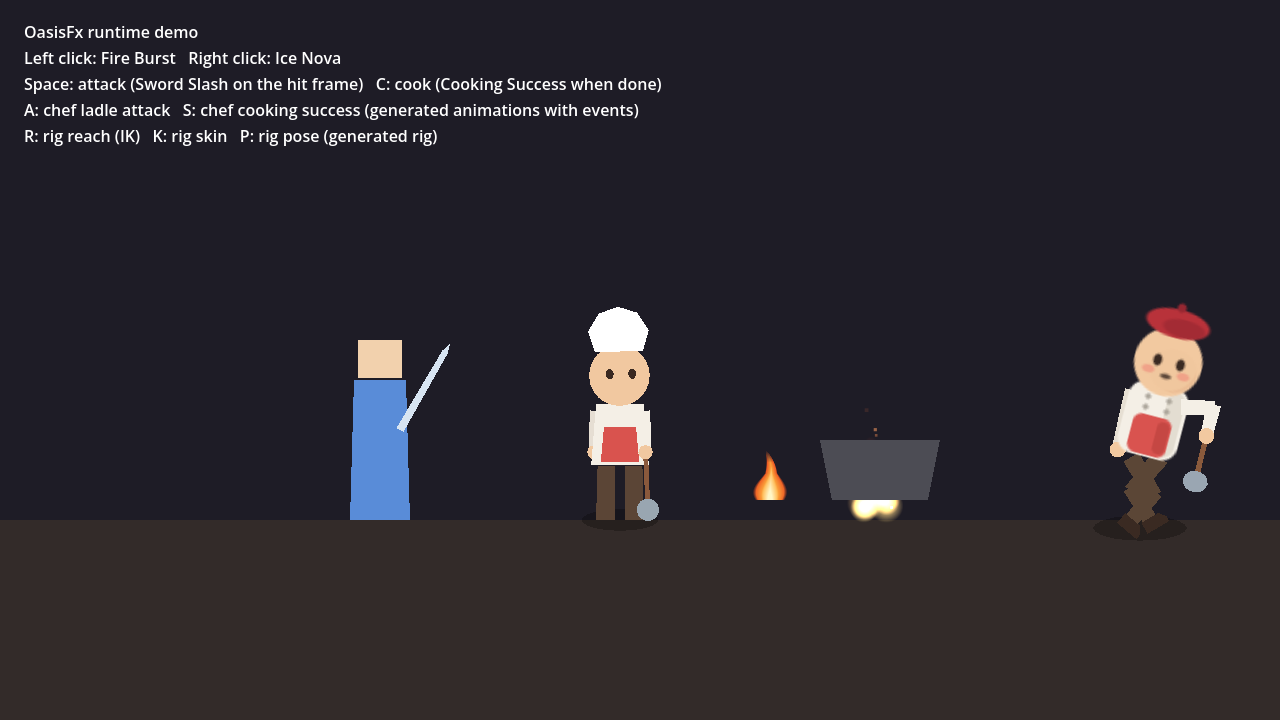
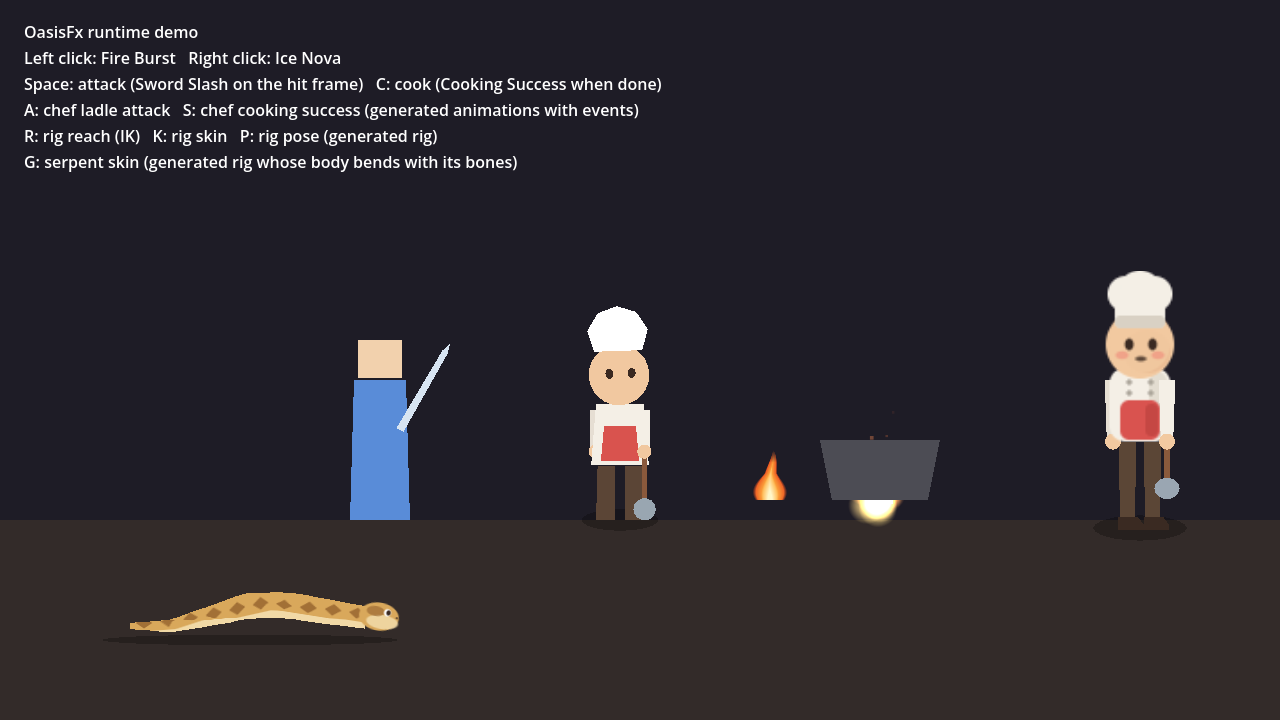
0.7.0 docs and status: bending parts, verification, audit appendix
desktop.md (usage, verification table: 191 passed, 0 failed, also on a
fresh copy; packaged Linux smoke test with rig_bending and matches_cli;
the GPU skinning spike result; Windows QA steps), READMEs, AUDIT section
13, CLAUDE.md status. GPU skinning on real hardware, Windows launch and
the real White Sahara mannequin import are NOT RUN.

Claude-Session: https://claude.ai/code/session_01QNXxnfVkdYajCu9VvWnLEJ

diff --git a/addons/oasis_fx/docs/desktop.md b/addons/oasis_fx/docs/desktop.md
@@ -4,7 +4,7 @@ OasisFx is also a standalone desktop application, built with Godot 4.7.2 from th
 repository (`app/`, entry scene `app/main.tscn`). It needs neither Godot Editor nor the
 game project to run. It edits particle effects (`.vfx.json`), layered sound effects
 (`.sfx.json`, Phase 2), animations (`.anim.json`) and sprite frames (`.frames.json`,
-Phase 3), and 2D cutout rigs (`.rig.json`, Phase 4). It uses the same core as the CLI (`addons/oasis_fx/src/core/`): the
+Phase 3), and 2D cutout rigs (`.rig.json`, Phase 4; bending parts in 0.7.0). It uses the same core as the CLI (`addons/oasis_fx/src/core/`): the
 inspector is generated from the validator's field table, the preview is built by the
 generator's builder, and export calls the generator.
 
@@ -35,6 +35,13 @@ the frames the animation uses and the current frame (right).*
 *Oasis Chef (Phase 4) with the `night_shift` skin and the `wave` pose; the right arm's IK
 target was moved, so the arm reaches up and the elbow bends. Bones (blue) and IK targets
 (orange circles) are drawn on top; the inspector shows the parts list editor.*
+
+![OasisFx desktop app with a bending rig](../../../docs/images/desktop_rig_bend.png)
+
+*Sand Serpent (0.7.0) in the `s_curve` pose: the textured body polygon bends with the six
+spine bones; its points are shown as green dots, the neck's IK target in orange. The
+inspector shows the selected `body` part and **Bend with bones**; further down are its
+weights (one value per point for each bone).*
 
 ## Using it
 
@@ -76,8 +83,15 @@ scene is never changed. A message lists what was not imported (bone weights, IK,
 sprite regions, animations, renamed nodes); the preset opens unsaved, ready for IK chains,
 skins and poses. Export it as a **new** scene. Details: [rig_format.md](rig_format.md).
 
+**Bending parts.** Select a polygon part under **Parts** and click **Bend with bones**: the
+part moves to the rig root (it stays where it is) and gets automatic weights for its nearest
+bones; its **Weights** list then shows one value per point for each bone, editable by hand.
+The preview bends it with the bones (points drawn as green dots with **Bones** on). Add
+points along the outline where it should bend first: a 4-point rectangle cannot bend. See
+[rig_format.md](rig_format.md#bending-parts-deformation).
+
 The preview is the generated rig itself (same builder, same runtime script), so skins,
-poses and IK behave as in the game. Moving a target in the preview does not change the
+poses, IK and bending behave as in the game. Moving a target in the preview does not change the
 preset; IK targets start where the preset says (`target`, or the rest pose).
 
 ### The game project and its files
@@ -218,7 +232,8 @@ bundled, Fire Burst exports into the given folder, the Sword Slash SFX example
 validates, loads its audio from the package (real lengths on the timeline) and exports
 with its runtime and audio files, the Chef Ladle Attack animation, Campfire Flame
 sprite frames and Oasis Chef rig validate, preview (rig stand-in / sheet / rig with its part
-images) and export, and every bundled
+images) and export, the Sand Serpent's body bends in the preview (`"rig_bending": true`),
+and every bundled
 example generates exactly the CLI's text (`"matches_cli": true`). On Windows use
 `OasisFx.console.exe` (same arguments) to see the output in a console.
 
@@ -289,6 +304,20 @@ example generates exactly the CLI's text (`"matches_cli": true`). On Windows use
 | Launching `OasisFx.exe` on Windows; dragging IK targets with a real mouse | **NOT RUN** (no Windows; dragging was driven by code) |
 | Importing White Sahara's real `mannequin.tscn` | **NOT RUN** — the game repository is not in this session |
 
+## Verification status (0.7.0 — bending parts, 2026-10-15)
+
+| Check | Result |
+|---|---|
+| Spike: Godot's GPU skinning (`Polygon2D.skeleton`) in the Compatibility renderer, Xvfb + Mesa llvmpipe | **FAIL** (engine/driver) — points weighted to a non-first bone drawn in the wrong place even at rest; hence CPU bending by default |
+| Full suite (`run_tests.gd`, 18 test files incl. `test_rig_deform.gd`) | **PASS** — 191 passed, 0 failed; same result on a fresh copy without `.godot/` |
+| CPU bending matches the skinning math (points on one bone, joint points, parent moves, rest pose; rig under a moved/rotated/scaled parent) (automated) | **PASS** |
+| `auto-weights` reproduces the shipped serpent weights; import of a scene with Godot skinning (weights, uv, internal points, pieces) bends like the original; generate → import round trip (automated) | **PASS** |
+| Bending rig exported into a separate project, animated there (automated) | **PASS** |
+| App: weights editor, **Bend with bones**, sprite refusal message, bending preview (automated) | **PASS** |
+| Packaged Linux build `--smoke-test` incl. `"rig_bending": true` and `"matches_cli": true` for all 17 examples | **PASS** |
+| Rendered with a window (Xvfb, software OpenGL): serpent at rest, in poses, pale skin, IK moved; app preview; runtime demo | **PASS** — images above and in README |
+| `gpu_deform = true` on a real GPU / Forward+ renderer; Windows launch | **NOT RUN** |
+
 ## Manual QA checklist (Windows)
 
 Run these on a Windows 10/11 PC and note the results:
@@ -357,7 +386,15 @@ Rigs (Phase 4):
 25. **New ▾ → Rig**: a two-bone figure; *Add* a bone and a part; Save As suggests `.rig.json`.
 26. **Game project…** → the White Sahara project. **New ▾ → Rig from a scene in the game…** →
     the mannequin `.tscn`: a message lists what was not imported; the preview shows the
-    mannequin (rigid parts). Add `ik_chains` for the legs and try them.
+    mannequin (parts weighted to its skeleton bend). Add `ik_chains` for the legs and try them.
 27. Export `oasis_chef` to `chars` in the test game: the list shows the scene, `oasis_rig.gd`,
     `oasis_animation_events.gd` and the part images. In Godot, instantiate
     `res://chars/oasis_chef.tscn` twice and call `apply_skin` / `set_pose` from a script.
+
+Bending parts (0.7.0):
+
+28. Click **✦ sand_serpent**: the body is a smooth textured strip with green points. Pick
+    `wave` / `s_curve`: the body bends with the spine. Drag the `head` target: the neck bends.
+29. Open **✦ oasis_chef**, select part `upper_arm_r_shape`, click **Bend with bones**: the
+    status shows "(1 bending)"; drag the `arm_r` target: the sleeve's lower end now follows the
+    forearm part of the way (a softer elbow; its outline has only 4 points).

diff --git a/AUDIT.md b/AUDIT.md
@@ -228,3 +228,16 @@ tools/render_preview.gd               (dev) render contact sheet ผ่าน Xv
 - IK ใน headless ทำงาน (ทดสอบก่อนเริ่ม); modification stack ต้อง `enabled = true` และ target เป็น path เทียบกับ Skeleton2D
 - import: ถ้า z ของชิ้นส่วนติดลบ ชิ้นส่วนจะไปอยู่หลังพื้นหลังของเกม → เริ่มที่ 0
 - แอป: แถบ preview ยาวเกินหน้าจอเมื่อเพิ่มตัวเลือก skin/pose → ย้ายไปแถวของตัวเอง (เห็นจากภาพหน้าจอ); list editor ซ้อนกันวางเต็มความกว้าง
+
+---
+
+## 13. ภาคผนวก (2026-10-15): 0.7.0 — ชิ้นส่วนบิดงอตาม bone (optional deformation ของ Phase 4)
+
+| เรื่อง | การตัดสินใจ | เหตุผล |
+|---|---|---|
+| วิธีดัด | ดัดจุดบน CPU ใน `oasis_rig.gd` (`update_deformation()`, `process_priority` 1000 ให้ทำหลัง animation/IK) ด้วยสูตร skinning ของ Godot; ตัวเลือก `gpu_deform` สำหรับใช้ GPU | spike: GPU skinning ใน Compatibility renderer (Mesa llvmpipe) วาดจุดของ bone ตัวที่ 2 ขึ้นไปผิด แม้ในท่าปกติ — ตรวจด้วยภาพจริงหลายแบบ (ภาพ spike ไม่ได้ commit); CPU ตรวจด้วยเทสต์ headless ได้ |
+| ที่เก็บ weight | `Polygon2D.bones` แบบมาตรฐาน (path เทียบกับ Skeleton2D) และปล่อย `skeleton` ว่าง | scene ยังเป็นรูปแบบของ Godot; เปิด GPU ได้ภายหลังโดยไม่ต้องแปลงข้อมูล |
+| schema | field optional ใหม่ใน part: `weights`, `uv`, `internal_vertex_count`, `polygons`; ชนิด field ใหม่ `number_list`, `index_lists` | ไม่ต้องขึ้น schema_version; preset เดิมยังถูกต้องและไฟล์ scene ที่สร้างเหมือนเดิมทุก byte (hash ของ preset ใน manifest เปลี่ยนเพราะมีค่า default ใหม่) |
+| part ที่บิดงอ | ต้องติดกับ root (`bone` "") | จุดของมันขยับตาม bone หลายตัวอยู่แล้ว ถ้าติดกับ bone ด้วยจะถูกขยับซ้ำ |
+| weight อัตโนมัติ | 2 bone ที่ใกล้ที่สุดต่อจุด, 1/d⁴ แล้ว normalize, ปัดเศษ 0.001 | เรียบง่ายและคาดเดาได้; จุดบนข้อต่อได้ครึ่งต่อครึ่ง; ไม่มีแปรงระบาย (เกินขอบเขต) |
+| นำเข้า | เก็บ weight เมื่อ `skeleton` ของ Polygon2D ชี้ไปที่ Skeleton2D ที่นำเข้า (หรือว่างใน rig ของ OasisFx); ข้าม IKTargets ของ rig ที่ OasisFx สร้าง | weight ที่ไม่มี skeleton ไม่ทำให้ Godot ดัดอยู่แล้ว → นำเข้าแบบแข็งพร้อม note |

diff --git a/addons/oasis_fx/README.md b/addons/oasis_fx/README.md
@@ -7,13 +7,19 @@ and generates `.tscn` files built from built-in nodes (`Node2D`, `GPUParticles2D
 `ParticleProcessMaterial`, `AudioStreamPlayer`, …) plus one small runtime script that
 handles playback.
 
-**Status: 0.6.0 — Phase 4.** Rig presets (`*.rig.json`): 2D cutout characters built from
+**Status: 0.7.0 — Phase 4 with bending parts.** Polygon parts can bend with several bones
+(`weights`, plus `uv`, internal points and custom pieces): `OasisRig` moves their points on
+the CPU with Godot's skinning math (GPU skinning drew wrong in the Compatibility renderer
+tested), `auto-weights` computes weights, `import-rig` keeps the weights of skinned
+polygons. Example: Sand Serpent with a looping slither; see
+[docs/rig_format.md](docs/rig_format.md#bending-parts-deformation).
+
+0.6.0: rig presets (`*.rig.json`): 2D cutout characters built from
 `Skeleton2D` / `Bone2D` with rigid `Sprite2D` (layered PNG) and `Polygon2D` parts, markers,
 two-bone IK chains, skins (costume swaps) and poses, generated as a scene whose root runs
 `OasisRig`; `import-rig` creates a rig preset from an existing character scene (read as text,
 never changed). Example: Oasis Chef (CC0 part images) and an animation that drives its IK;
-see [docs/rig_format.md](docs/rig_format.md). Mesh deformation / bone weights are not
-supported.
+see [docs/rig_format.md](docs/rig_format.md).
 
 Phase 3 (0.5.1: files exported by the packaged desktop app are byte-identical to CLI output). Animation presets (`*.anim.json`): keyframe tracks for nodes
 of an existing scene (bones, sprites, polygons …) and events that show OasisFx effects and
@@ -118,12 +124,12 @@ registered class names (e.g. `--script` tools on a fresh clone), use
 
 ```
 addons/oasis_fx/
-  cli/oasis_fx_cli.gd           headless CLI (validate[-all], generate[-all], format, schema, import-rig)
+  cli/oasis_fx_cli.gd           headless CLI (validate[-all], generate[-all], format, schema, import-rig, auto-weights)
   src/core/                      shared loader, validator, builder, generator, manifest
   src/runtime/oasis_fx_effect.gd playback script attached to generated effect scenes
   src/runtime/oasis_sfx_effect.gd playback script attached to generated sound scenes
   src/runtime/oasis_animation_events.gd  receives animation events (shows their effects)
-  src/runtime/oasis_rig.gd       root script of generated rigs (skins, poses, IK lookups)
+  src/runtime/oasis_rig.gd       root script of generated rigs (skins, poses, IK lookups, bending parts)
   schemas/                       JSON Schemas vfx/sfx/animation/sprite_frames/rig v1 (generated from the field tables)
   presets/examples/              example presets; audio/, sprites/ and rig_parts/ hold CC0 example files,
                                  rigs/chef_rig.tscn is the example character for the animations
@@ -136,7 +142,7 @@ addons/oasis_fx/
 - [Preset format](docs/preset_format.md) — every field, unit, range, rule and the runtime behavior
 - [Sound preset format](docs/sfx_format.md) — `sfx` fields, rules, runtime, export and licensing
 - [Animation and sprite frames formats](docs/animation_format.md) — tracks, keys, events, sprite sheets
-- [Rig format](docs/rig_format.md) — bones, parts, markers, IK, skins, poses, import, runtime API
+- [Rig format](docs/rig_format.md) — bones, parts, bending parts, markers, IK, skins, poses, import, runtime API
 - [CLI](docs/cli.md) — commands, options, exit codes, manifest, CI setup, tests
 - [AI authoring guide](docs/ai_authoring_guide.md) — prompt, rules, examples and edit recipes for ChatGPT/Claude
 - [Desktop app](docs/desktop.md) — using, building and verifying the standalone app

diff --git a/CLAUDE.md b/CLAUDE.md
@@ -80,6 +80,14 @@ row, list editors). Full suite 179 passed, 0 failed (also on a fresh copy); pack
 passed, packaged exports byte-identical to CLI; Windows launch and importing White Sahara's real `mannequin.tscn`
 NOT RUN; mesh deformation / bone weights not implemented. Awaiting owner acceptance; all spec phases now exist.
 
+**0.7.0 bending parts (user requested "continue", 2026-10-15):** Phase 4's optional deformation —
+polygon part `weights` (+ `uv`, `internal_vertex_count`, `polygons`; additive schema v1 fields) stored as
+standard `Polygon2D.bones`, bent on the CPU by `oasis_rig.gd` (GPU skinning drew wrong in the Compatibility
+renderer under llvmpipe; `gpu_deform` opt-in), `rig_weights.gd` + CLI `auto-weights`, importer keeps skinning,
+example `sand_serpent` + `sand_serpent_slither`, app weights editor / Bend with bones. Full suite 191 passed,
+0 failed (also on a fresh copy); packaged Linux smoke test incl. `rig_bending` passed; GPU skinning on real
+hardware, Windows launch and the real mannequin import NOT RUN. Awaiting owner acceptance.
+
 Stop after the requested milestone unless the user has requested a later one.
 Phase 1B expands the shared VFX core; Phase 1C implements desktop UI and Windows
 packaging. SFX, animation and rigging remain later milestones.
